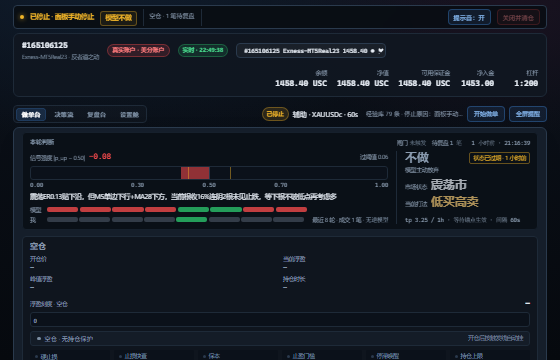
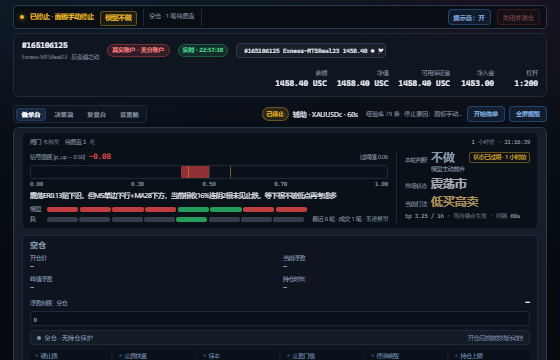
fix(ui): 「本轮判断」下移到右栏，紧贴它标注的「不做」
原来这四个字是卡片标题，在左上角；结论「不做」在右栏第一行。
横着隔 740px、竖着差 26px，中间还夹着信号条，标签和值分家，
读起来像「本轮判断」后面跟着一堆数据、结论另起一列。

- 「本轮判断」变成右栏第一个 11px 标签，与市场状态/当前打法排成同一列
  「标签 + 24px 值」；三个标签都是四字，左边缘对齐成一条竖线。
- 环头去掉标题后剩闸门/待复盘/时刻：meta 靠左补位、时刻仍靠右，
  不再出现 740px 的空白头。标题类 .ring-head .t 一并删掉。
- .ring-side > .side-kv:first-child 取消上间距：必须限定直接子元素，
  否则 .ctx-state 里的「市场状态」也会命中 :first-child 丢掉间距。
- 冒烟新增 1 条：「本轮判断」必须在 ringWord 之前、且环头不再出现。

验收：1067 单测通过；冒烟全过；1120x720 / 1600x900 / 50% 三张截图重截。

diff --git a/tools/dashboard_template.html b/tools/dashboard_template.html
@@ -214,16 +214,18 @@
   .ring.veto::before { background: var(--veto); }
   .ring-head { display: flex; align-items: center; gap: var(--sp2);
                margin-bottom: var(--sp2); min-width: 0; }
-  .ring-head .t { font-size: var(--fs-2); color: var(--muted); font-weight: 600;
-                  white-space: nowrap; }
+  /* 环头不再放标题：「本轮判断」是「不做」的标签，不是卡片标题。原来它在
+     左上角、结论在右栏，横着隔 740px、竖着差 26px，中间还夹着信号条，
+     标签和值分家。现在标题下移到右栏，正好排在「不做」前面；环头只剩
+     闸门/待复盘/时刻，meta 靠左补位，时刻仍靠右。 */
   .ring-head .ts {
-    margin-left: var(--sp3); font-size: var(--fs-1); color: var(--dim);
+    margin-left: auto; font-size: var(--fs-1); color: var(--dim);
     font-family: var(--mono); white-space: nowrap;
   }
-  /* act / 闸门 / 待复盘：从环底那一行并到这里。三小段都不换行，
+  /* 闸门 / 待复盘：从环底那一行并到这里。两小段都不换行，
      窄一点就整体收窄（不折行，折行会顶高环头）。 */
   .ring-meta {
-    display: flex; gap: var(--sp3); margin-left: auto; min-width: 0;
+    display: flex; gap: var(--sp3); min-width: 0;
     font-size: var(--fs-1); color: var(--dim); white-space: nowrap; overflow: hidden;
   }
   .ring-meta b { color: var(--muted); font-weight: 500; font-family: var(--mono); }
@@ -340,6 +342,10 @@
     margin-top: var(--sp2); min-width: 0;
   }
   .side-kv .k { font-size: var(--fs-1); color: var(--dim); white-space: nowrap; }
+  /* 「本轮判断 不做」是第一行，标签和值同一基线；后续两行才有上间距。
+     必须限定 .ring-side 的直接子元素，否则 .ctx-state 里的「市场状态」
+     也会命中 :first-child 而丢掉上间距。 */
+  .ring-side > .side-kv:first-child { margin-top: 0; }
   .side-kv .v {
     font-size: var(--fs-9); line-height: 1.15; font-weight: 700;
     letter-spacing: -.3px; color: var(--text);
@@ -2101,11 +2107,10 @@
            原话理由 + 建议胶囊 + 等待锚点。 -->
       <div class="ring" id="ring">
         <div class="ring-head">
-          <span class="t">本轮判断</span>
           <span class="ring-tag hidden" id="ringTag">—</span>
           <!-- 闸门 / 待复盘：原来是环底单独一行（27px + 8px 内边距），并到环头。
-               act 2026-11-05 从环头删掉：右栏已经有 24px 的「不做」加一行
-               「模型主动放弃」副标题，环头再来一个 act false 就是同一信息第三份。 -->
+               标题「本轮判断」2026-11-05 下移到右栏、紧贴结论「不做」；
+               act 也不在环头：右栏 24px 的「不做」加副标题已经是两份。 -->
           <span class="ring-meta" title="闸门 = 程序闸门是否放行；待复盘 = 平仓后还没复盘的笔数">
             <span>闸门 <b id="fGate">—</b></span>
             <span>待复盘 <b id="fPend">—</b></span>
@@ -2155,12 +2160,16 @@
               </div>
             </div>
           </div>
-          <!-- 右栏 = 字：纵向结论列。顺序是「先看结论、再看依据」：
-               不做 → 市场状态 → 当前打法 → 参数。三个值都是 --fs-9，
-               靠 11px 标签分层，读作「市场状态：震荡市」。
+          <!-- 右栏 = 字：纵向结论列。三行同一节奏，都是「11px 标签 + 24px 值」：
+               本轮判断：不做 → 市场状态：震荡市 → 当前打法：低买高卖 → 参数。
+               标题跟着值走：原来「本轮判断」在卡片左上角，离结论 740px，
+               读的时候标签和值接不上。
                打法由后端按 regime + cfg 现算，空仓也有具体文案，前端不拼口径。 -->
           <div class="ring-side" id="ringSide">
-            <div class="ring-act hold" id="ringAct"><span id="ringWord">—</span><small id="ringActSub">还没跑过</small></div>
+            <div class="side-kv">
+              <span class="k">本轮判断</span>
+              <div class="ring-act hold" id="ringAct"><span id="ringWord">—</span><small id="ringActSub">还没跑过</small></div>
+            </div>
             <div class="ctx-state" id="ctxState">
               <div class="side-kv">
                 <span class="k">市场状态</span><span class="v" id="ctxRegime">—</span>

diff --git a/tools/smoke_dashboard.js b/tools/smoke_dashboard.js
@@ -734,6 +734,15 @@ try {
   const noDupAct = src.indexOf('id="fAct"') < 0;
   console.log(`  环头不再重复 act ${noDupAct ? '✓' : '✗'}`);
   if (!noDupAct) failed = true;
+  // 「本轮判断」是「不做」的标签，必须紧贴在它前面。回到环头（卡片左上角）
+  // 就又变成标签离值 740px；两处都出现则是同一标题重复。
+  const sideBlock = src.slice(sideIdx, sideIdx + 900);
+  const labelIdx = sideBlock.indexOf('<span class="k">本轮判断</span>');
+  const wordIdx = sideBlock.indexOf('id="ringWord"');
+  const labelOk = labelIdx > 0 && wordIdx > labelIdx
+    && src.indexOf('class="t">本轮判断') < 0;
+  console.log(`  「本轮判断」紧跟「不做」且不再出现在环头 ${labelOk ? '✓' : '✗'}`);
+  if (!labelOk) failed = true;
 } catch (e) {
   failed = true;
   console.log('渲染抛错:', e.message);
